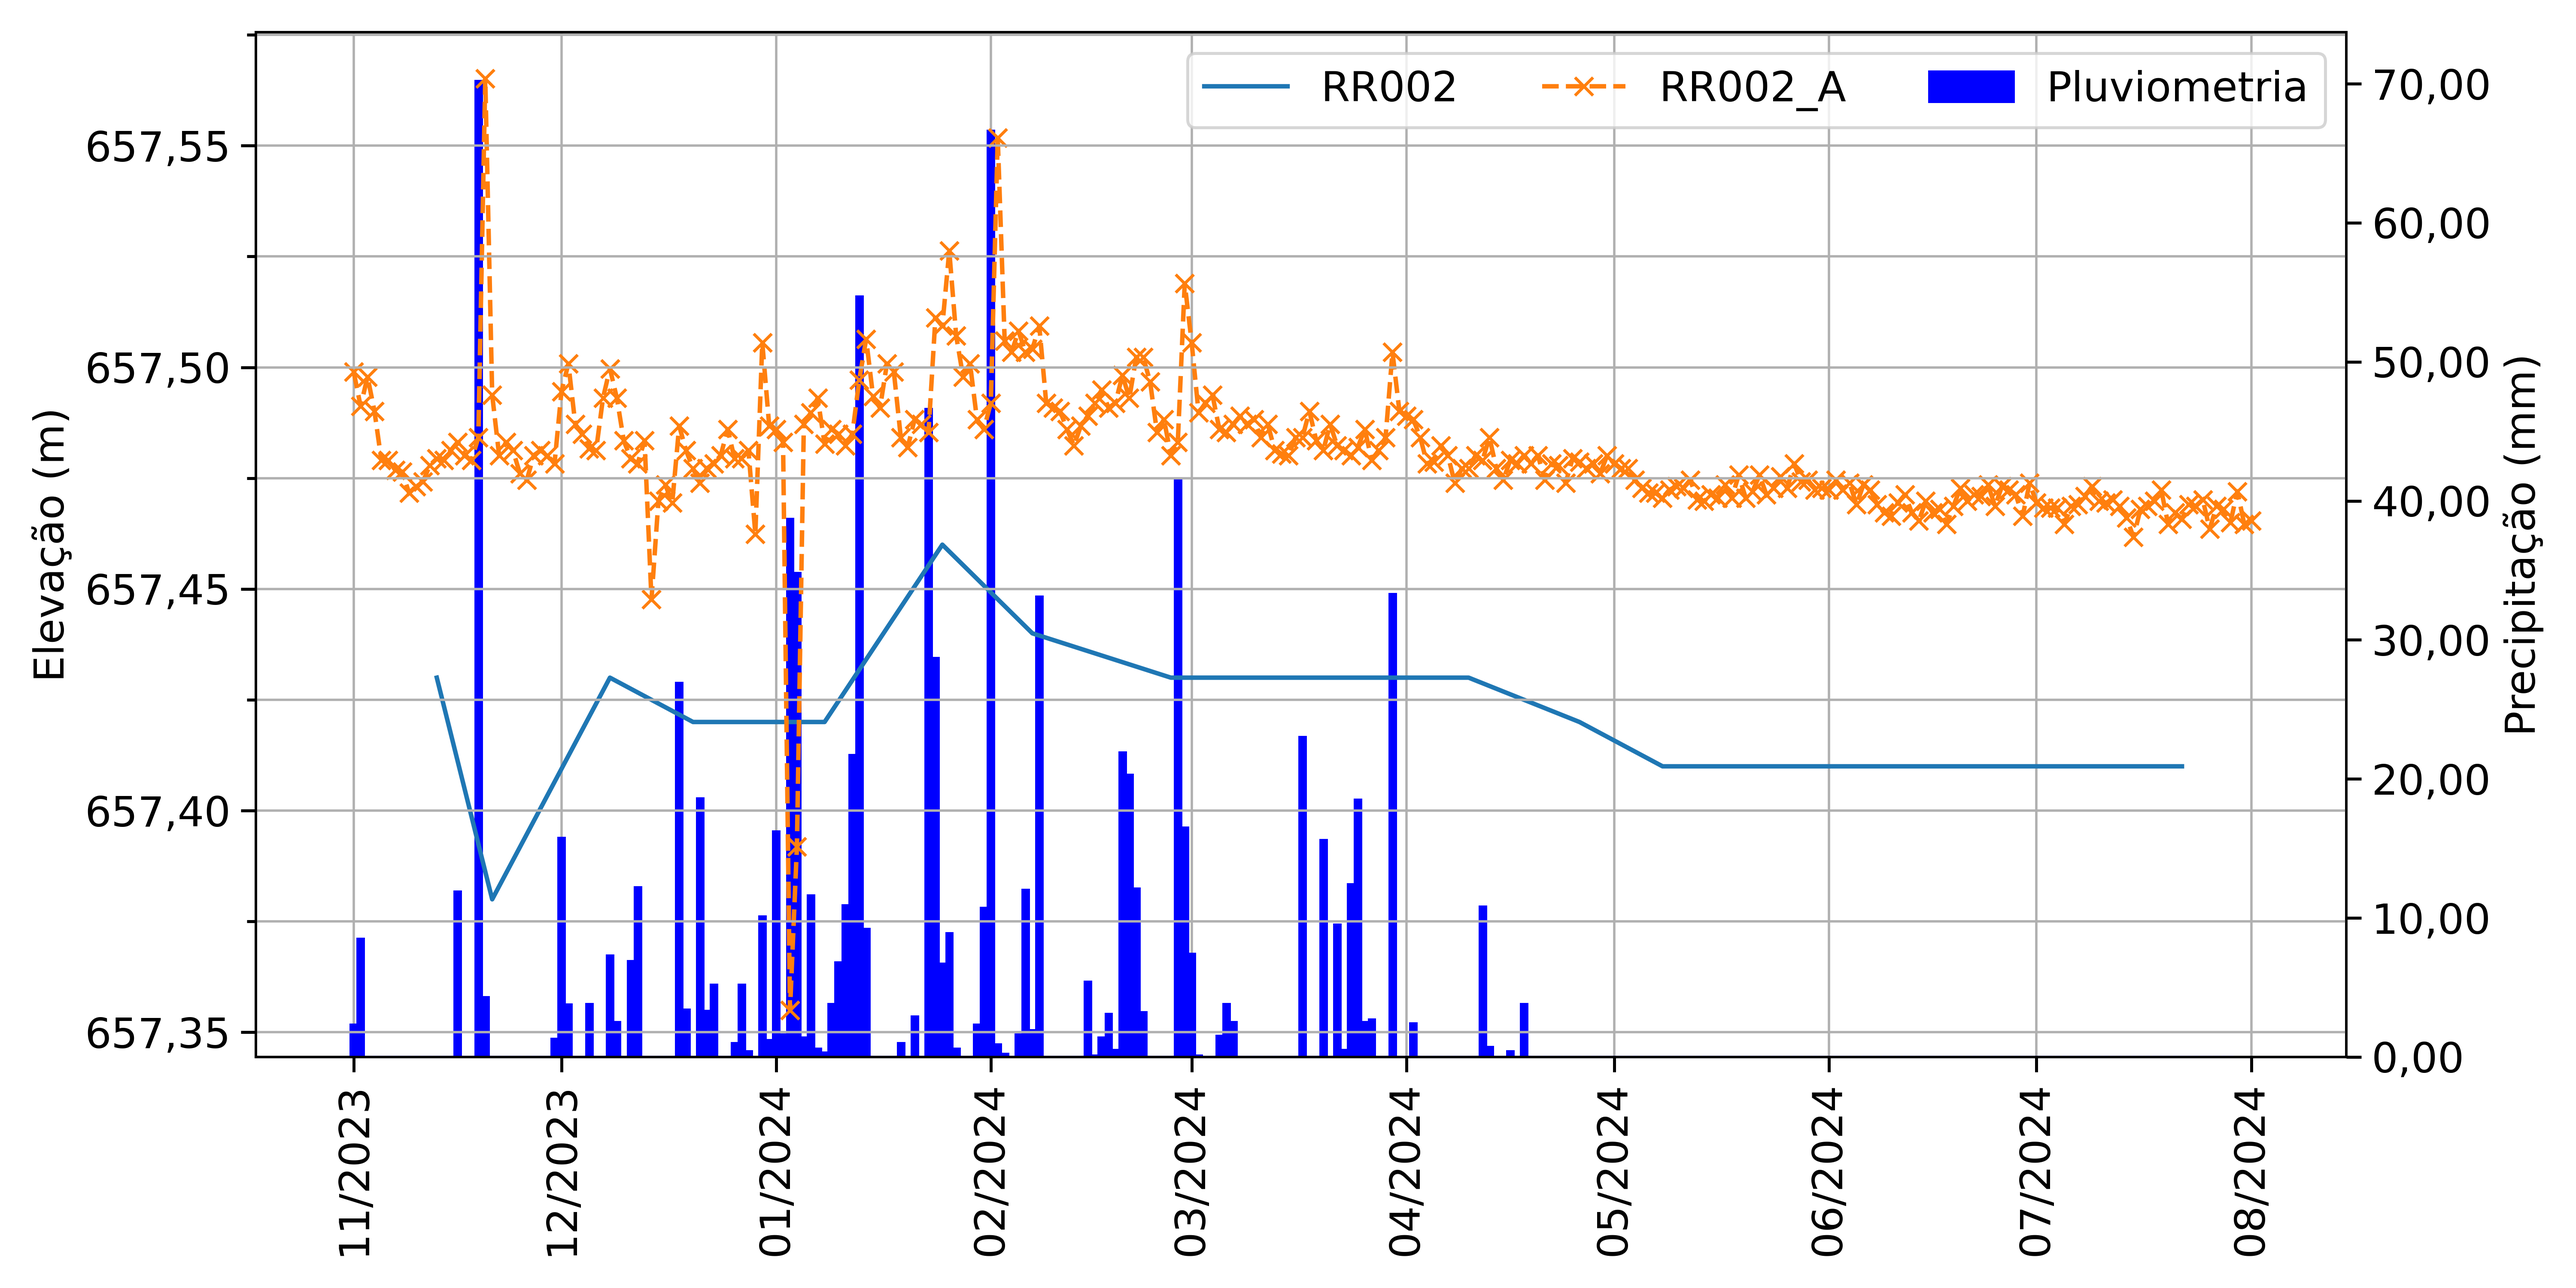
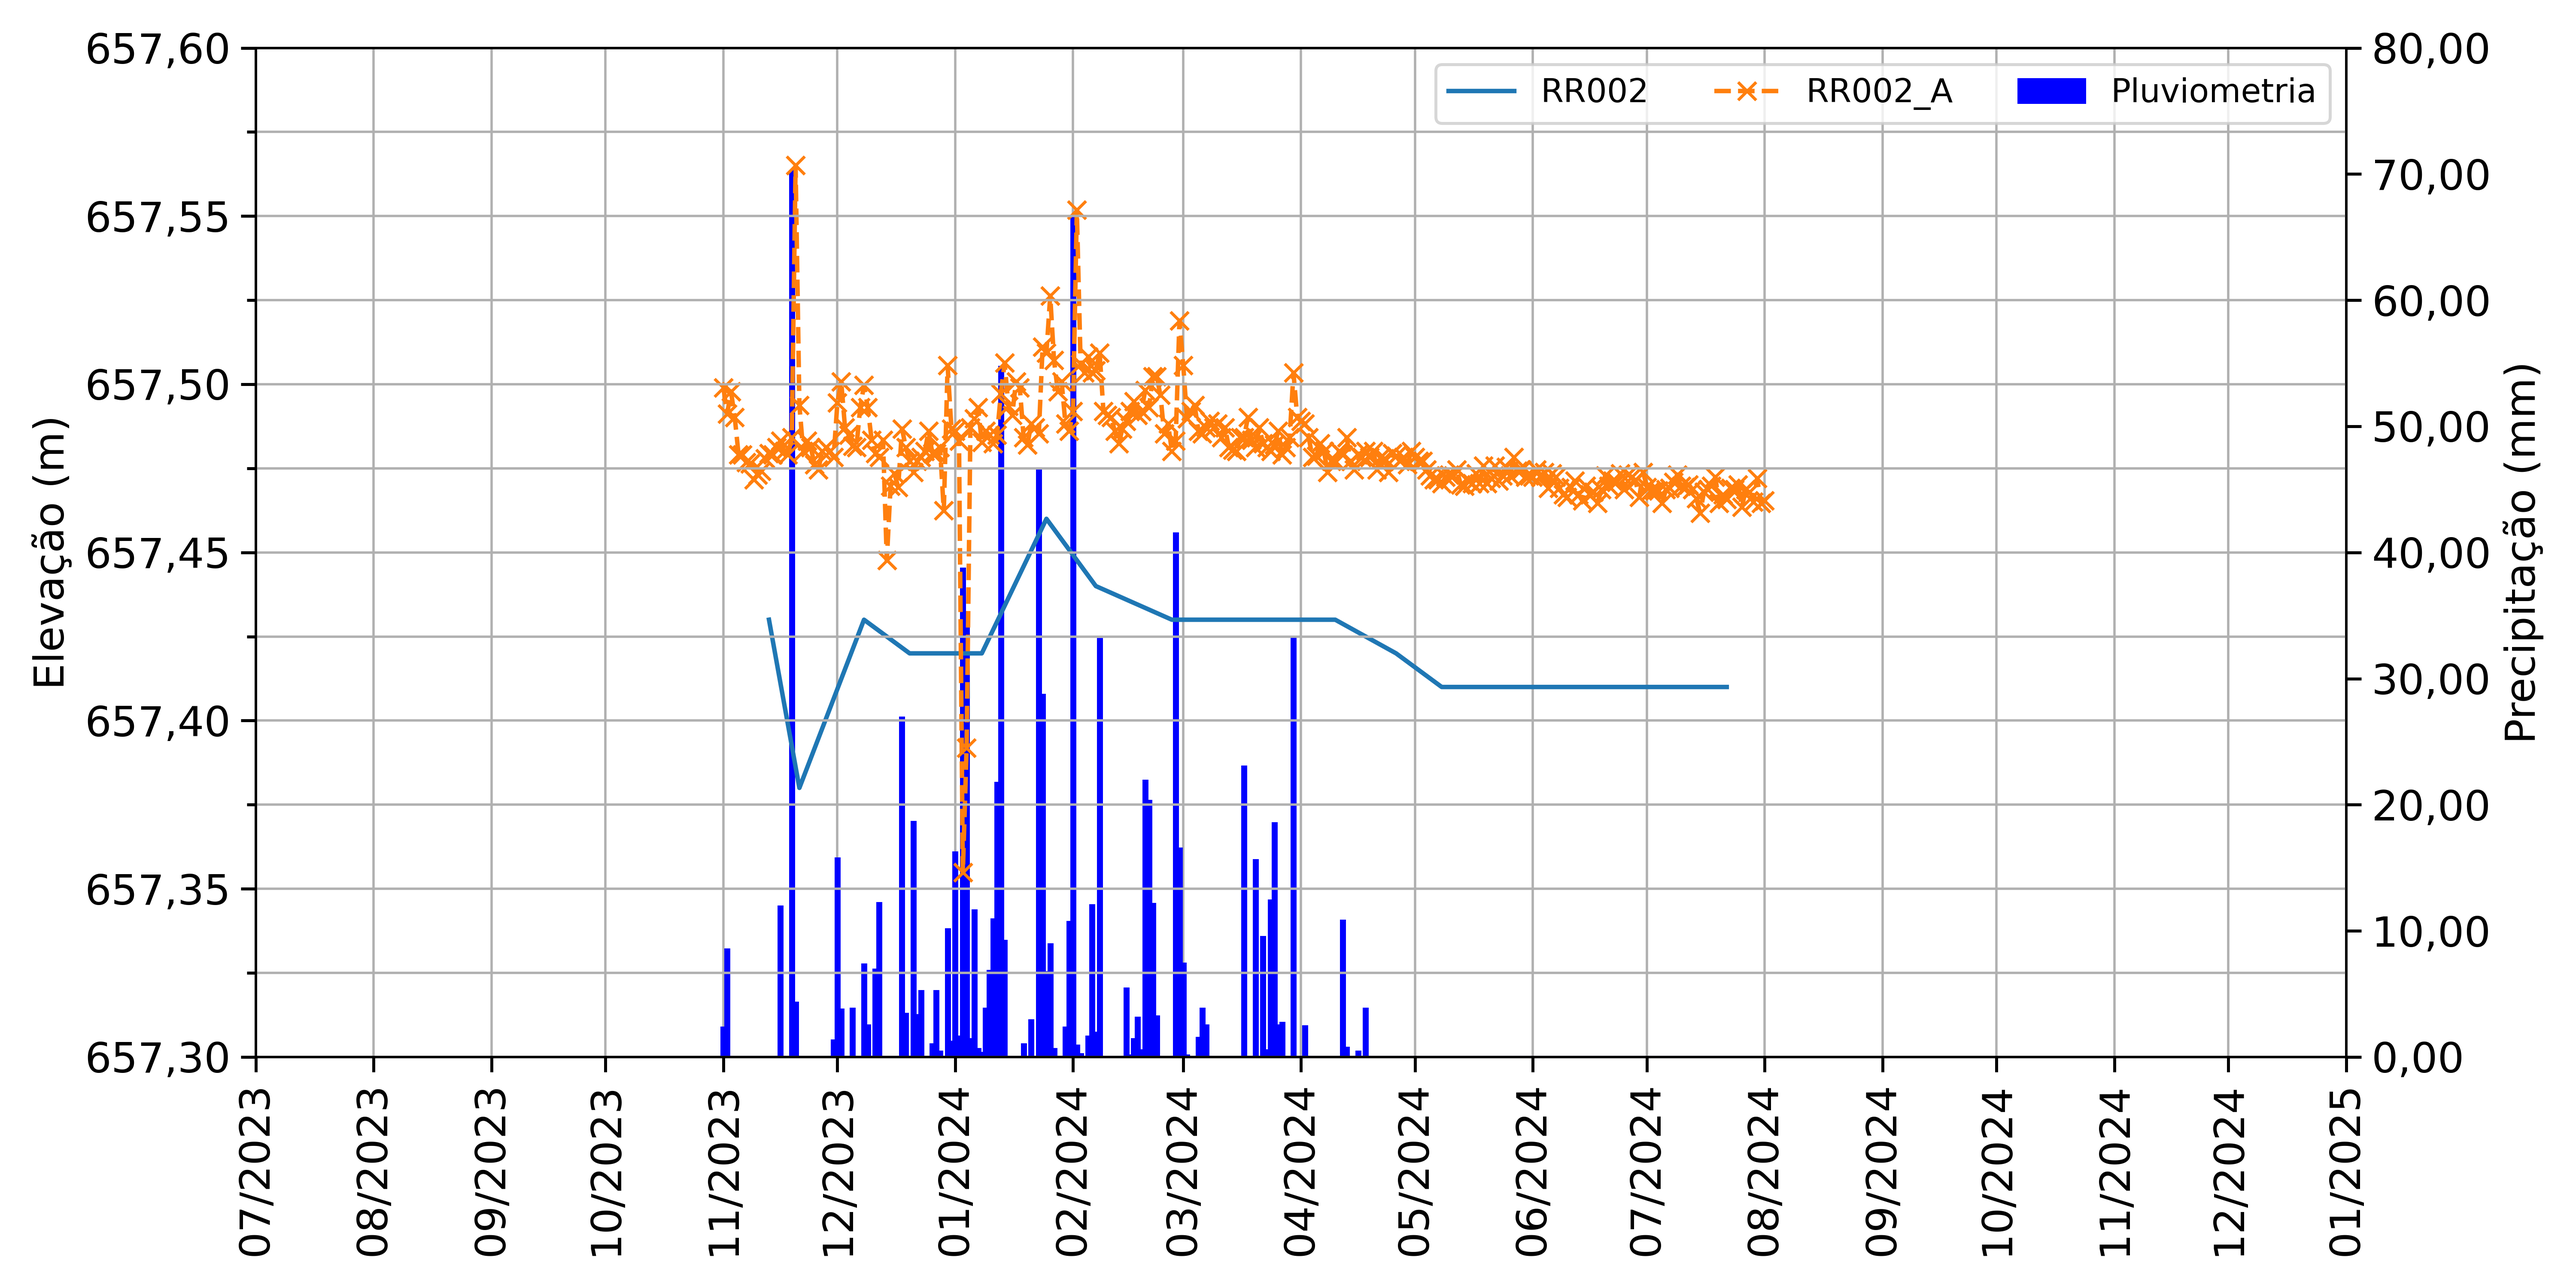
Implem. Limites Perfeitos no Grafico
Adição das funções intervaloPerfeito e intervaloPerfeitoData no método Grafico.__init__

diff --git a/modules/functions.py b/modules/functions.py
@@ -47,6 +47,70 @@ instrumentoToEixo = {
     "Poço": "",
     }
 
+def isEvery(iterable,type_):
+    for item in iterable:
+        if not isinstance(item,type_):
+            return False
+    return True
+
+def intervaloPerfeito(valores,dV:float|int|None=None,superior=True,min_=None,max_=None,returndV=False):
+    if len(valores)==0:
+        return (None,None)
+    if min_==None:
+        min_ = min(valores)
+    if max_==None:
+        max_ = max(valores)
+    
+    if max_<min_:
+        raise Exception("Valor max menor do que valor min.")
+    if dV==None:
+        dVDefault = (0.01, 0.02, 0.05, 0.1, 0.2, 0.5, 1, 2, 5, 10, 20, 50)
+        L = abs(max_-min_)
+        for dVi in sorted(dVDefault):
+            if 0<L/dVi<=10:
+                dV = dVi
+                break
+            else:
+                dV=1
+    if superior:
+        minPerf, maxPerf = (min_//dV)*dV-dV,(max_//dV)*dV+dV
+        if minPerf<0:
+            minPerf=0
+        if returndV:
+            return (minPerf, maxPerf), dV
+        else:
+            return (minPerf, maxPerf)
+    else:
+        raise Exception("Ainda não foi implementado o superior=False")
+
+def intervaloPerfeitoData(datas,dV=None,superior=True,min_=None,max_=None):
+    if len(datas)==0:
+        return (None,None)
+    if dV!=None:
+        raise Exception("Ainda não foi implementado o dV!=None")
+    if superior==False:
+        raise Exception("Ainda não foi implementado o superior=False")
+    
+    if min_==None:
+        min_:pd.Timestamp = min(datas)
+    if min_.month<=6:
+        minCorrigido = pd.Timestamp(day=1,month=1,year=min_.year)
+    elif min_.month==7 and min_.day==1:
+        minCorrigido = min_        
+    else:
+        minCorrigido = pd.Timestamp(day=1,month=7,year=min_.year)
+    
+    if max_==None:
+        max_:pd.Timestamp = max(datas)
+    if max_.month<=6:
+        maxCorrigido = pd.Timestamp(day=1,month=7,year=max_.year)
+    elif max_.month==7 and max_.day==1:
+        maxCorrigido = max_
+    else:
+        maxCorrigido = pd.Timestamp(day=1,month=1,year=max_.year+1)
+    
+    return (minCorrigido,maxCorrigido)
+
 def getFunctionToFuncFormatter(nCasasDecimais,sepDecimal=",",sepMilhar=""):
     """Função para construir uma função de formatação de float com separador de milhar e decimal customizado para a classe FuncFormatter."""
     def functionToReturn(x,pos):
@@ -174,7 +238,6 @@ def gerarHistorico(nomeInstrumento,
                    temCotaTopo=True,
                    temPLV=True
                    ):
-    print(1)
     pluv = tratarDados(nomeInstrumentoPluv)
     inst = tratarDados(nomeInstrumento)
     seco = tratarDados(nomeInstrumento,seco=True)
@@ -193,61 +256,7 @@ def gerarHistorico(nomeInstrumento,
             historico.loc[:,f"{nomeInstrumento} ({string})"] = get_info_instrument(nomeInstrumento,column)
     return historico
 
-def intervaloPerfeitoData(nomeInstrumento):
-    
-    min = definirLimites(nomeInstrumento)["data"]["min"]
-    if min.month<=6:
-        minCorrigido = pd.Timestamp(day=1,month=1,year=min.year)
-    elif min.month==7 and min.day==1:
-        minCorrigido = min        
-    else:
-        minCorrigido = pd.Timestamp(day=1,month=7,year=min.year)
-    
-    max = definirLimites(nomeInstrumento)["data"]["max"]
-    if max.month<=6:
-        maxCorrigido = pd.Timestamp(day=1,month=7,year=max.year)
-    elif max.month==7 and max.day==1:
-        maxCorrigido = max
-    else:
-        maxCorrigido = pd.Timestamp(day=1,month=1,year=max.year+1)
-    
-    return minCorrigido,maxCorrigido
 
-def intervaloPerfeito(nomeInstrumento,dV:float|int|None=None,superior=True,min=None,max=None):
-    if min==None or max==None:
-        min = definirLimites(nomeInstrumento)["leitura"]["min"]
-        max = definirLimites(nomeInstrumento)["leitura"]["max"]
-    
-    if max<min:
-        raise Exception("Valor max menor do que valor min.")
-    if dV==None:
-        dVDefault = [
-            0.01,
-            0.02,
-            0.05,
-            0.1,
-            0.2,
-            0.5,
-            1,
-            2,
-            5,
-            10,
-            20,
-            50]
-        L = abs(max-min)
-        for dVi in sorted(dVDefault):
-            if 0<L/dVi<=10:
-                dV = dVi
-                break
-            else:
-                dV=1
-    if superior:
-        minPerf, maxPerf = (min//dV)*dV-dV,(max//dV)*dV+dV
-        if minPerf<0:
-            minPerf=0
-        return minPerf, maxPerf, dV
-    else:
-        raise Exception("Ainda não foi implementado o superior=False")
 
 def avaliarTrecho (nomeInstrumento,y0=0,yi=10**10,percentiles=[.25,.5,.75]):
     serie:pd.date_range = tratarDados(nomeInstrumento)

diff --git a/modules/classes.py b/modules/classes.py
@@ -7,13 +7,13 @@ from matplotlib.figure import Figure
 from matplotlib.font_manager import FontProperties
 from matplotlib.pyplot import rcParams
 if __name__=="__main__":
-    from functions import pullValues, getWindowsArtist, getFunctionToFuncFormatter
+    from functions import pullValues, getFunctionToFuncFormatter, intervaloPerfeito, intervaloPerfeitoData, isEvery
     from annotate import *
 else:
-    from .functions import pullValues, getWindowsArtist, getFunctionToFuncFormatter
+    from .functions import pullValues, getFunctionToFuncFormatter, intervaloPerfeito, intervaloPerfeitoData, isEvery
     from .annotate import *
 
-plt.rcParams.update({"legend.fontsize":14})
+plt.rcParams.update({"legend.fontsize":11})
 X = pd.DataFrame(np.linspace(0.5, 3.5, 20))
 Y = pd.DataFrame(3+np.cos(X))
 
@@ -24,6 +24,9 @@ class Serie():
         self.data = self.data.dropna()
         self.X = self.data.iloc[:,0]
         self.Y = self.data.iloc[:,1]
+        self.xLim:tuple = (min(self.X),max(self.X))
+        self.yLim:tuple = (min(self.Y),max(self.Y))
+        self.axes = []
         self.type = type
         self.color = color
         self.label = label # Atributos para recuperação da informação passada no construtor
@@ -223,7 +226,25 @@ class Grafico():
                 self.ax.yaxis.set_label_position("right")
                 self.ax.yaxis.tick_right()
             pass
+        
+        # Set Axis Limits based the self.series
+        xValores = []
+        yValores = []
+        y2Valores = []
 
+        for serie in series:
+            xValores.extend(serie.xLim)
+            if serie.toSecundary:
+                y2Valores.extend(serie.yLim)
+            else:
+                yValores.extend(serie.yLim)
+        if isEvery(xValores,pd.Timestamp):
+            self.setup.update(dict(xlim=intervaloPerfeitoData(xValores)))
+        else:
+            self.setup.update(dict(xlim=intervaloPerfeito(xValores)))
+        self.setup.update(dict(ylim = intervaloPerfeito(yValores), y2lim = intervaloPerfeito(y2Valores)))
+        
+        return           
 
     def render(self):
         
